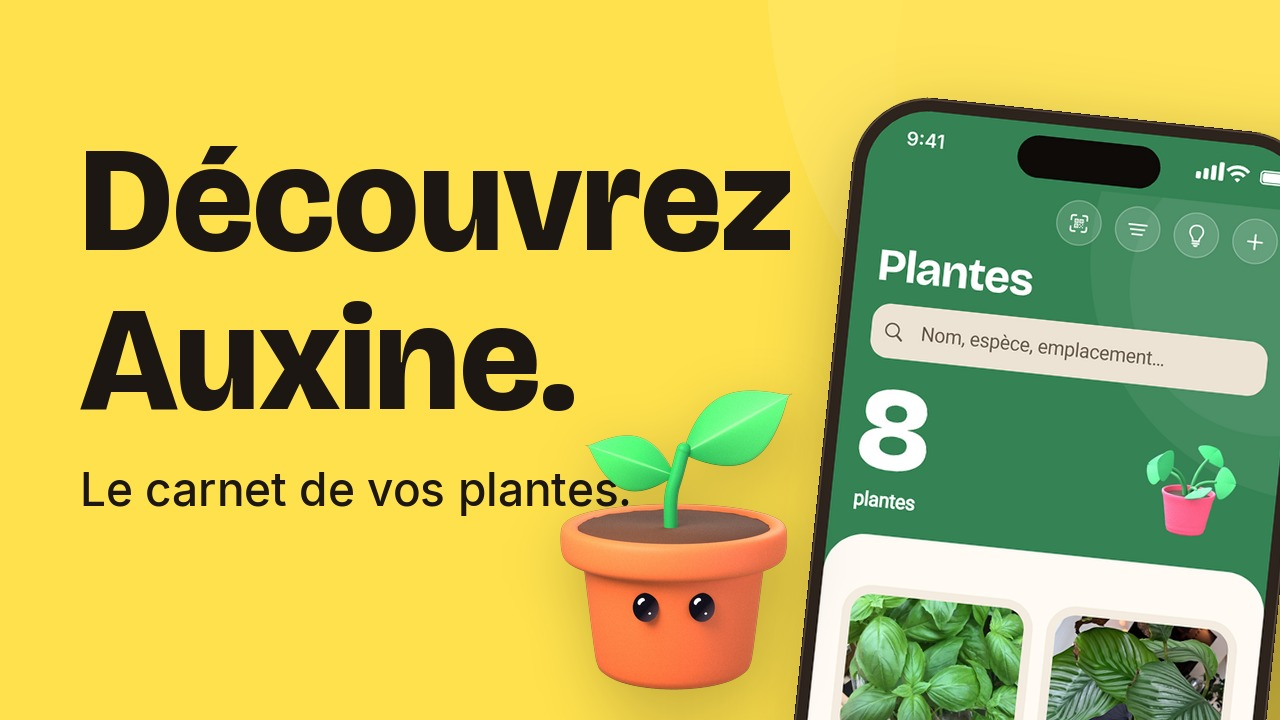
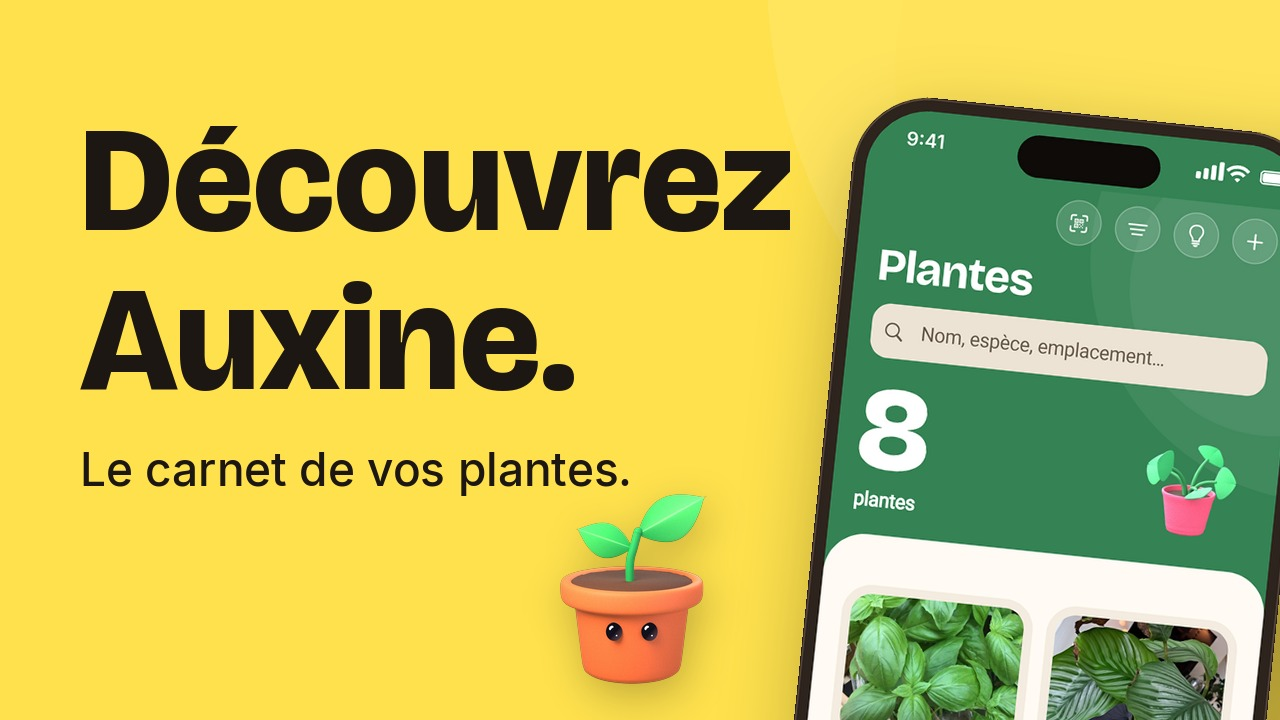
marketing : le pot de la miniature ne mord plus sur la phrase
Claude-Session: https://claude.ai/code/session_01PDVjaF1d2UBx4x9v8SHUv3

Changed region(s): [[0.0625, 0.5194, 0.625, 1.0], [0.0625, 0.1528, 0.625, 0.3667], [0.0625, 0.3972, 0.4688, 0.5806]]

diff --git a/marketing/kit.py b/marketing/kit.py
@@ -320,9 +320,10 @@ def profils():
 
     # La miniature d'une vidéo : 1280 × 720.
     img, ink, ink2 = fond((1280, 720), 'sun')
-    texte(img, 80, 110, 640, 'Découvrez\nAuxine.', 'Le carnet de vos plantes.', 150, ink, ink2)
+    texte(img, 80, 90, 640, 'Découvrez\nAuxine.', 'Le carnet de vos plantes.', 150, ink, ink2)
     telephone(img, 'plants', 470, 1280 - 470 - 60, 90, -6)
-    objet(img, POT, 300, 560, 720 - 30)
+    # Sous la phrase, jamais dessus : le pot se pose entre le texte et l'appareil.
+    objet(img, POT, 190, 560, 720 - 36)
     enregistrer(img, 'miniature-video-1280x720')
 
 
